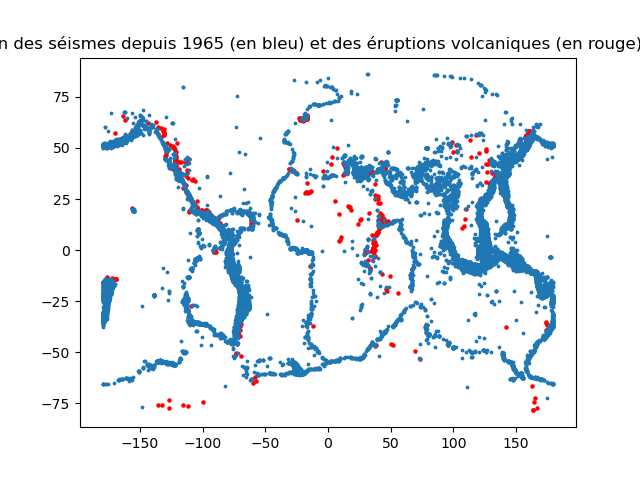
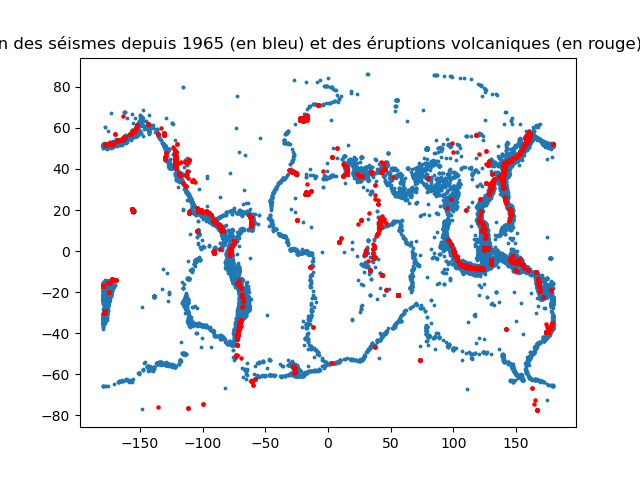
update

diff --git a/ensg/miashs/l3-sd2/tps/cc2/correction.html b/ensg/miashs/l3-sd2/tps/cc2/correction.html
@@ -5,8 +5,10 @@
 <head>
   <meta http-equiv="Content-Type" content="text/html; charset=utf-8" />
   <title>Contrôle 2</title>
-  <link href="https://philippe-preux.github.io/css/ma.css" 
+  <link href="/home/ppreux/philippe-preux.github.io/css/ma.css" 
 	rel="stylesheet" type="text/css" media="all" />
+  <!--link href="https://philippe-preux.github.io/css/ma.css" 
+	rel="stylesheet" type="text/css" media="all" /-->
   <link rel="shortcut icon" type="image/x-icon" 
 	href="https://philippe-preux.github.io/img/site.ico" />
 </head>
@@ -108,7 +110,7 @@ quakes ["ID"] = quakes ["ID"].astype("category")</pre>
 	  Il suffit de compter le nombre d'occurences de chacune des années pour connaître le nombre de séisme pour chaque année. De plus, <kbd>value_counts()</kbd> trie les valeurs dans l'ordre décroissant. Aussi, l'année où il y a eu le plus de séisme est la première, celle où il y en a eu le moins est la dernière&nbsp;:
 	</p>
 	<pre># l'année où il y a eu le plus de séismes :
-quakes.loc[:,"a"].value_counts().index[0]</pre>
+quakes.loc[:,"a"].value_counts().index[0]
 # 2011
 # l'année où il y a eu le moins de séismes :
 quakes.loc [:,"a"].value_counts().index [len(quakes.loc[:,"a"].value_counts())-1]
@@ -121,10 +123,10 @@ quakes.loc [:,"a"].value_counts().index [len(quakes.loc[:,"a"].value_counts())-1
     <li>Comment vérifiez-vous si les données sont ordonnées chronologiquement dans le tableau de données&nbsp;? Indiquez comment vous faites dans le compte-rendu.
       <div class="correction">
 	<p>
-	  Le pluss imple est de faire une boucle et de vérifier que la date correspondant à la i<sup>è</sup> ligne est inférieure ou égale à celle de la ligne i+1.
+	  Une manière simple consiste à faire une boucle vérifiant que la date correspondant à la i<sup>è</sup> ligne est inférieure ou égale à celle de la ligne i+1.
 	</p>
 	<pre>ordonne = True
-for i in quakes.shape [0]-2:
+for i in range (quakes.shape [0]-2):
     if quakes.loc [i, "DateHeure"] > quakes.loc [i+1, "DateHeure"]:
         ordonne = False
         break
@@ -183,6 +185,8 @@ ax.set_title ("Nombre de tremblements de terre par année.")
 fig.show()</pre>
 	<p>
 	  <img src="NbTremblementsParAnnee.png" width="300pt" alt="Nombre de séismes par année." />
+	  <br/>
+	  Il y a une tendance à une augmentation du nombre annuel de séismes de 1965 à 2011 et moins entre 2011 et 2016. On constate quand même que la différence entre le minimum et le maximum est d'environ 450 séismes, soit la valeur médiane, donc une grande variabilité au fil des ans.
 	</p>
       </div>
     </li>
@@ -222,7 +226,10 @@ ax.loglog (quakes.loc [:, "Magnitude"].value_counts()) #, marker = 'o')
 ax.set_title ("Réprésentation log-log\nde la distribution empirique de la magnitude des séismes.")
 fig.show()</pre>
 	<p>
-<img src="DistributionEmpiriqueMagnitudeSeismeLoglog.png" width="300pt" alt="Représentation log-log de la distribution empirique de la magnitude des séismes" />
+	  <img src="DistributionEmpiriqueMagnitudeSeismeLoglog.png" width="300pt" alt="Représentation log-log de la distribution empirique de la magnitude des séismes" />
+	  <br/>
+	  La courbe est assez droite sur une grande partie, ce qui est indice d'une loi de puissance (cf. le TP sur la recommandation de musique).
+	</p>
       </div>
     </li>
     <li>Y a-t-il une corrélation linéaire entre la magnitude d'un séisme et sa profondeur&nbsp;? Dans votre compte-rendu, indiquez ce que vous faites pour mesurer cette corrélation et répondez à la question.
@@ -299,8 +306,8 @@ fig.show()</pre>
 	<pre>volcano = pd.read_csv ("/home/ppreux/philippe-preux.github.io/ensg/miashs/l3-sd2/datasets/volcanos/volcano.csv")
 
 fig, ax = plt.subplots ()
-ax.scatter (volcano.longitude, volcano.latitude, color = "red", s = 5)
 ax.scatter (quakes.Longitude, quakes.Latitude, s = 3)
+ax.scatter (volcano.longitude, volcano.latitude, color = "red", s = 5)
 ax.set_title ("Position des séismes depuis 1965 (en bleu) et des éruptions volcaniques (en rouge) connus.")
 fig.show()</pre>
 	<p>

diff --git a/ensg/miashs/l3-sd2/tps/cc2/index.html b/ensg/miashs/l3-sd2/tps/cc2/index.html
@@ -5,8 +5,10 @@
 <head>
   <meta http-equiv="Content-Type" content="text/html; charset=utf-8" />
   <title>Contrôle 2</title>
-  <link href="https://philippe-preux.github.io/css/ma.css" 
+  <link href="/home/ppreux/philippe-preux.github.io/css/ma.css" 
 	rel="stylesheet" type="text/css" media="all" />
+  <!--link href="https://philippe-preux.github.io/css/ma.css" 
+	rel="stylesheet" type="text/css" media="all" /-->
   <link rel="shortcut icon" type="image/x-icon" 
 	href="https://philippe-preux.github.io/img/site.ico" />
 </head>
